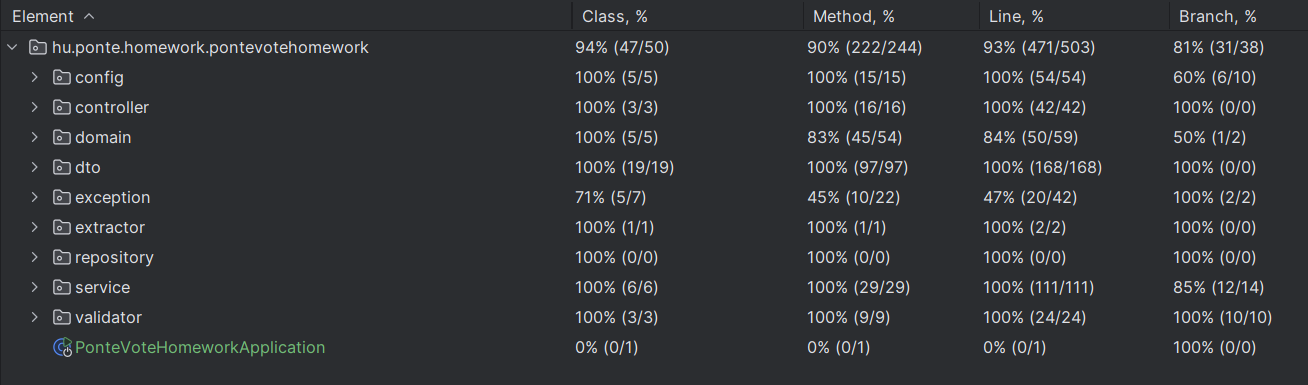
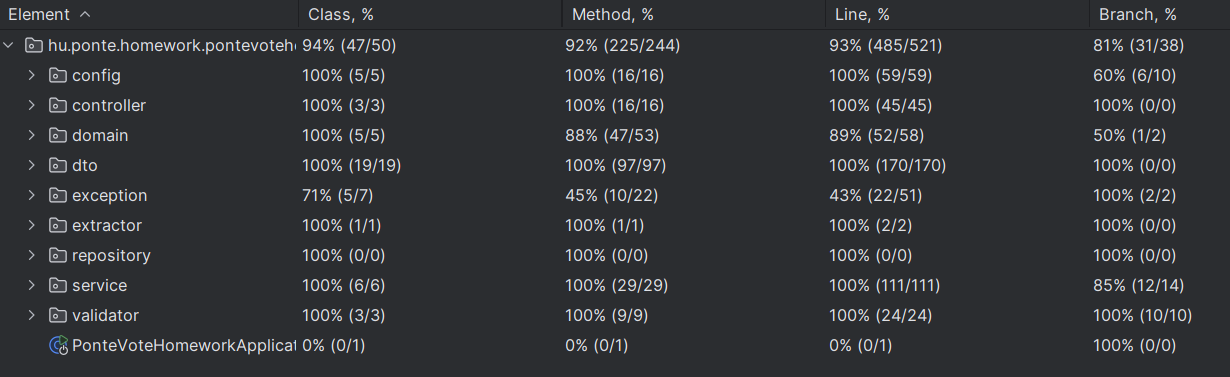
last commit

diff --git a/src/test/java/hu/ponte/homework/pontevotehomework/service/AdminServiceTest.java b/src/test/java/hu/ponte/homework/pontevotehomework/service/AdminServiceTest.java
@@ -5,6 +5,7 @@ import hu.ponte.homework.pontevotehomework.domain.IdeaStatus;
 import hu.ponte.homework.pontevotehomework.dto.income.VoteCommand;
 import hu.ponte.homework.pontevotehomework.dto.outgoing.*;
 import hu.ponte.homework.pontevotehomework.exception.IdeaNotExistsException;
+import hu.ponte.homework.pontevotehomework.repository.IdeaRepository;
 import org.junit.jupiter.api.Test;
 import org.springframework.beans.factory.annotation.Autowired;
 import org.springframework.boot.test.autoconfigure.web.servlet.AutoConfigureMockMvc;
@@ -30,13 +31,16 @@ class AdminServiceTest {
 
     @Autowired
     private IdeaService ideaService;
+    @Autowired
+    private IdeaRepository ideaRepository;
 
     @Test
     @Sql("/insert.user.for.test")
     @Sql("/insert.idea.for.test")
     void test_accepting_Ideas() {
 
-        Idea idea = ideaService.unwrapIdea("Idea2");
+        Idea idea = ideaRepository.findIdeaByIdea("Idea2").orElse(null);
+        assert idea != null;
         assertEquals(IdeaStatus.WAITING_FOR_RESPOND, idea.getStatus());
         IdeaAuthorizeResponse response = adminService.accepting(2L);
         assertNotNull(response);
@@ -66,7 +70,9 @@ class AdminServiceTest {
     @Sql("/insert.idea.for.test")
     void test_decline_Ideas() {
 
-        Idea idea = ideaService.unwrapIdea("Idea2");
+        Idea idea = ideaRepository.findIdeaByIdea("Idea2")
+                .orElse(null);
+        assert idea != null;
         assertEquals(IdeaStatus.WAITING_FOR_RESPOND, idea.getStatus());
         IdeaAuthorizeResponse response = adminService.decline(2L);
         assertNotNull(response);
@@ -76,7 +82,9 @@ class AdminServiceTest {
         assertTrue(diff < 300);
         assertEquals("Idea3", response.getIdeaText());
         assertEquals("200 OK", response.getHttpStatus());
-        Idea ideaAfterAccept = ideaService.unwrapIdea("Idea3");
+        Idea ideaAfterAccept = ideaRepository.findIdeaByIdea("Idea3")
+                .orElse(null);
+        assert ideaAfterAccept != null;
         assertEquals(IdeaStatus.DECLINED, ideaAfterAccept.getStatus());
     }
 

diff --git a/src/main/java/hu/ponte/homework/pontevotehomework/exception/GlobalExceptionHandler.java b/src/main/java/hu/ponte/homework/pontevotehomework/exception/GlobalExceptionHandler.java
@@ -51,8 +51,8 @@ public class GlobalExceptionHandler {
     public ResponseEntity<ApiError> handleJsonParseException(JsonParseException ex) {
         log.error("Json parse error:{}", ex.getMessage());
         HttpStatus status = HttpStatus.BAD_REQUEST;
-        ApiError body = new ApiError(ex.getMessage(), "Invalid JSON request."
-                ,ZonedDateTime.now().toString());
+        ApiError body = new ApiError(ex.getMessage(), status
+                ,ZonedDateTime.now());
         return new ResponseEntity<>(body, status);
     }
 
@@ -60,8 +60,8 @@ public class GlobalExceptionHandler {
     public ResponseEntity<ApiError> defaultErrorHandler(Throwable t) {
         log.error("Internal error:{}", t.getMessage());
         HttpStatus status = HttpStatus.INTERNAL_SERVER_ERROR;
-        ApiError body = new ApiError(t.getMessage(), "An unexpected error occurred."
-                ,ZonedDateTime.now().toString());
+        ApiError body = new ApiError(t.getMessage(), status
+                ,ZonedDateTime.now());
 
         return new ResponseEntity<>(body, status);
     }
@@ -89,6 +89,6 @@ public class GlobalExceptionHandler {
     }
 
     private <T extends RuntimeException> ApiError apiExceptionMake(T exception, HttpStatus status) {
-        return new ApiError(exception.getMessage(), status.toString(), ZonedDateTime.now().toString());
+        return new ApiError(exception.getMessage(), status, ZonedDateTime.now());
     }
 }

diff --git a/src/main/java/hu/ponte/homework/pontevotehomework/exception/ApiError.java b/src/main/java/hu/ponte/homework/pontevotehomework/exception/ApiError.java
@@ -8,20 +8,27 @@ public class ApiError {
 
     private final String message;
 
-    private final HttpStatus status;
+    private final String status;
 
-    private final ZonedDateTime timestamp;
+    private final String timeStamp;
 
-    public ApiError(String message, String status, String timestamp) {
+
+
+    public ApiError(String message, HttpStatus status, ZonedDateTime timeStamp) {
         this.message = message;
-        this.status = HttpStatus.valueOf(status);
-        this.timestamp = ZonedDateTime.parse(timestamp);
+        this.status = status.toString();
+        this.timeStamp = timeStamp.toString();
     }
 
     public String getMessage() {
         return message;
     }
 
+    public String getStatus() {
+        return status;
+    }
 
-
+    public String getTimeStamp() {
+        return timeStamp;
+    }
 }

diff --git a/src/main/java/hu/ponte/homework/pontevotehomework/service/IdeaService.java b/src/main/java/hu/ponte/homework/pontevotehomework/service/IdeaService.java
@@ -74,6 +74,7 @@ public class IdeaService {
         return voteMapper.makeVoteResponse(idea.getIdea(), vote.getVoteAt().toString());
     }
 
+
     private void voteGuard(User user, User toCompare) {
         if (toCompare.getRole() == Roles.ADMIN) {
             throw new InvalidVoteException("You are admin you cannot vote");
@@ -87,7 +88,7 @@ public class IdeaService {
     }
 
     protected Idea unwrapIdea(String ideaText) {
-        return ideaRepository.findIdeaByIdea(ideaText)
+        return ideaRepository.findIdeaByIdeaAndAcceptStatus(ideaText)
                 .orElseThrow(() -> new IdeaNotExistsException(ideaText));
     }
 }

diff --git a/src/main/java/hu/ponte/homework/pontevotehomework/repository/IdeaRepository.java b/src/main/java/hu/ponte/homework/pontevotehomework/repository/IdeaRepository.java
@@ -30,4 +30,8 @@ public interface IdeaRepository extends JpaRepository<Idea, Long> {
     @Query(nativeQuery = true, value = "select * from ideas i where i.status='ACCEPTED' and" +
             " i.expire_at > now() order by i.time_of_make")
     List<Idea> getAcceptedForUser();
+
+    @Query(nativeQuery = true, value = "select * from ideas i where i.idea=:idea and i.status='ACCEPTED'")
+    Optional<Idea> findIdeaByIdeaAndAcceptStatus(@Param("idea")String ideaText);
+
 }
